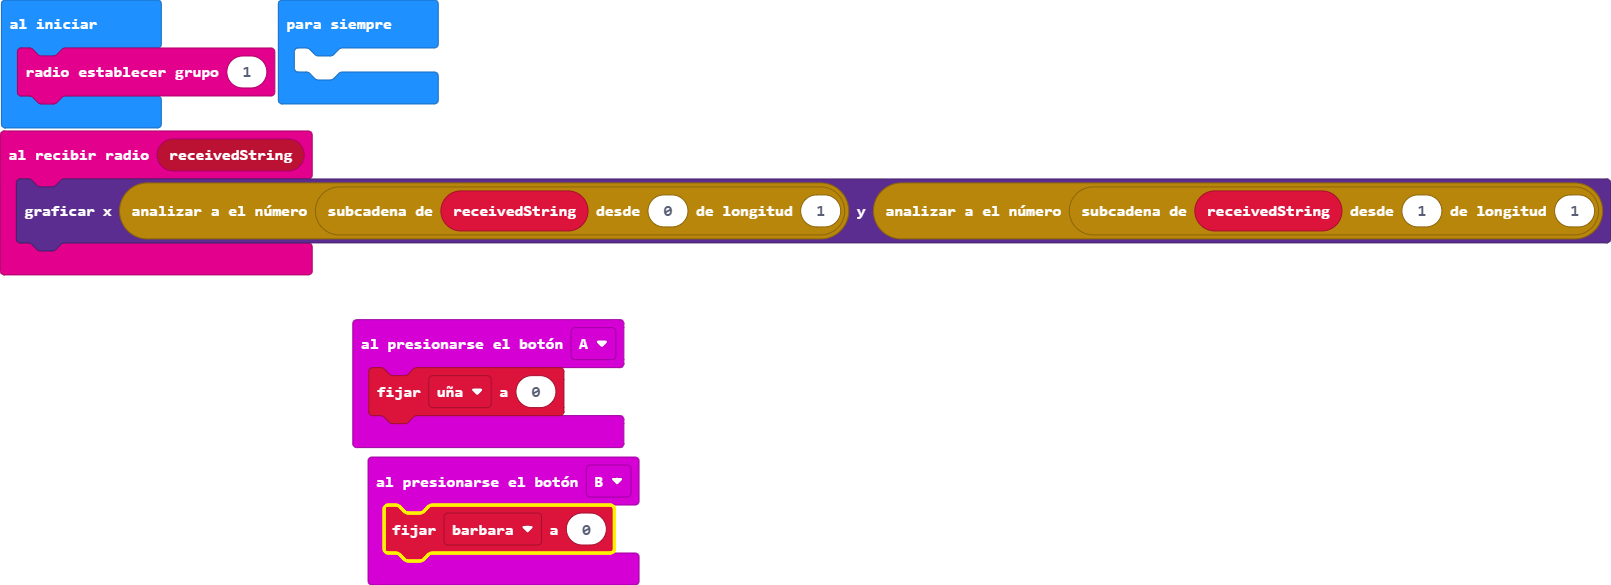
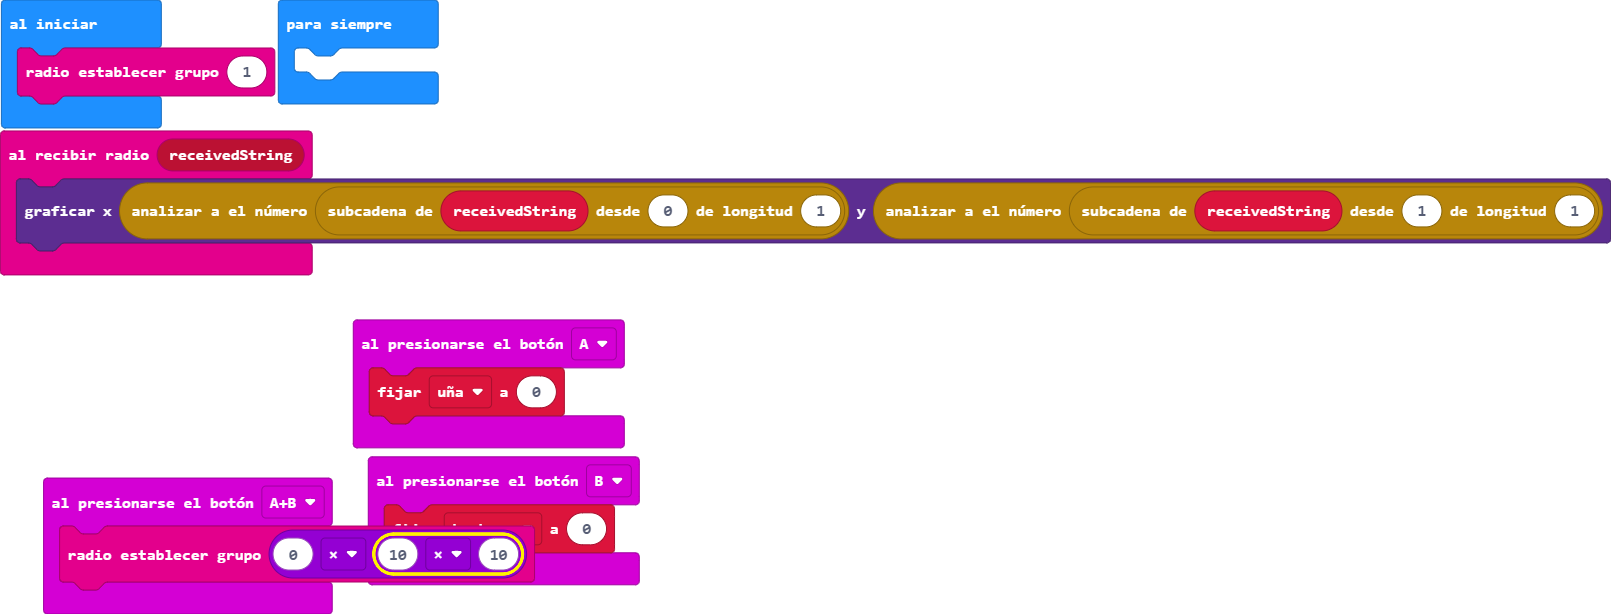
Actualizar main.blocks, main.ts

Changed region(s): [[0.0, 0.0308, 1.0, 0.4923], [0.0, 0.4923, 0.4035, 1.0]]

diff --git a/main.ts b/main.ts
@@ -1,6 +1,9 @@
 input.onButtonPressed(Button.A, function () {
     uña = 0
 })
+input.onButtonPressed(Button.AB, function () {
+    radio.setGroup(0 * (10 * 10))
+})
 radio.onReceivedString(function (receivedString) {
     led.plot(parseFloat(receivedString.substr(0, 1)), parseFloat(receivedString.substr(1, 1)))
 })
